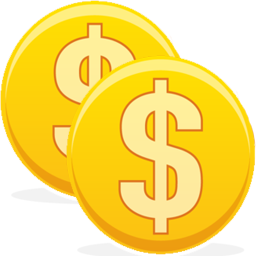
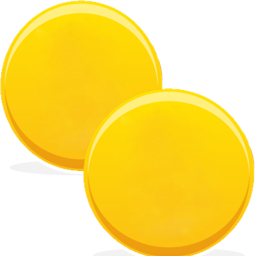
[CHANGED] A a lot of the assets for better looks [WIP] Nicer picture scaling on canvas [ADDED] Defuse all bombs purchase [FIXED] Bug where savedAchievements array would get overpopulated by the same achievement over and over again [IMPROVED] Movement in a certain direction can now be applied through

diff --git a/js/snake.js b/js/snake.js
@@ -5,6 +5,7 @@
  * */
 
 const TICKRATE = 20;
+const log2 = Math.log(2);
 document.addEventListener("DOMContentLoaded", () => {
 	let game = SnakeGame.getGame();
 
@@ -88,10 +89,11 @@ function $(selector){
 const directions = [];
 class Direction {
 
-	constructor(direction, oppositeDirection, headRotation){
+	constructor(direction, oppositeDirection, headRotation, applyMovement){
 		this.direction = direction;
 		this.oppositeDirection = oppositeDirection;
 		this.headRotation = headRotation;
+		this.applyMovement = applyMovement;
 	}
 
 	isOpposite(direction){
@@ -113,10 +115,18 @@ class Direction {
 
 }
 
-Direction.LEFT = Direction.addDirection(new Direction("left", "right", 0));
-Direction.UP = Direction.addDirection(new Direction("up", "down", 90));
-Direction.RIGHT = Direction.addDirection(new Direction("right", "left", 180));
-Direction.DOWN = Direction.addDirection(new Direction("down", "up", 270));
+Direction.LEFT = Direction.addDirection(new Direction("left", "right", 0, (entity, amount) => {
+	entity.x -= amount;
+}));
+Direction.UP = Direction.addDirection(new Direction("up", "down", 90,(entity, amount) => {
+	entity.y -= amount;
+}));
+Direction.RIGHT = Direction.addDirection(new Direction("right", "left", 180, (entity, amount) => {
+	entity.x += amount;
+}));
+Direction.DOWN = Direction.addDirection(new Direction("down", "up", 270, (entity, amount) => {
+	entity.y += amount;
+}));
 Object.freeze(directions);
 
 const gameStates = new Set();
@@ -168,7 +178,6 @@ class SnakeGame {
 				unlockedAchievements: []
 			};
 
-			this.save();
 		} else {
 			this.savedValues = Cookies.getJSON("savedValues");
 		}
@@ -209,6 +218,11 @@ class SnakeGame {
 		addWithID(this.upgrades, new Upgrade("doublescore", "Double Score", "Every apple increases your score by two instead of one", loadImage("score.png"), 15, null, null));
 
 		//Purchases
+		addWithID(this.purchases, new Purchase("defuse", "Defuse all bombs", "Defuses all the bombs on the field", this.bombImg, 20, () => {
+			this.bombs.forEach((bomb) => {
+				bomb.kill();
+			});
+		}, null));
 		addWithID(this.purchases, new Purchase("cut", "Cut in Half", "Cuts your snake in half", loadImage("scissors.png"), 10, () => {
 			let length = this.currentSnake.snakeParts.length;
 
@@ -296,6 +310,7 @@ class SnakeGame {
 		});
 
 		this.updateNewGameOverlay(true);
+		this.save();
 	}
 
 	generateHTML() {
@@ -488,6 +503,16 @@ class SnakeGame {
 	}
 
 	save(){
+		let savedAchievements = [];
+
+		this.achievements.forEach((achievement) => {
+			if(!achievement.locked){
+				savedAchievements.push(achievement.id);
+			}
+		});
+
+		this.savedValues.unlockedAchievements = savedAchievements;
+
 		Cookies.set("savedValues", this.savedValues, {expires: 365});
 	}
 
@@ -505,7 +530,7 @@ class SnakeGame {
 		}
 
 		let snCanvas = this.snakeCanvas;
-		let canvasCont = snCanvas.canvasContext;
+		let canvasCont = snCanvas.canvasCtx;
 		snCanvas.updateCanvasSize();
 		snCanvas.scaleNext();
 
@@ -568,7 +593,10 @@ class SnakeCanvas {
 
 	constructor() {
 		this.canvasEl = $("#snakeCanvas");
-		this.canvasContext = this.canvasEl.getContext("2d");
+		this.canvasCtx = this.canvasEl.getContext("2d");
+
+		this.scalingCanvasEl = document.createElement("canvas");
+		this.scalingCanvasCtx = this.scalingCanvasEl.getContext("2d");
 
 		this.scale = 1;
 		this.updateCanvasSize();
@@ -580,7 +608,7 @@ class SnakeCanvas {
 
 	updateCanvasSize() {
 		let game = SnakeGame.getGame();
-		let context = this.canvasContext;
+		let context = this.canvasCtx;
 
 		let devicePixelRatio = window.devicePixelRatio || 1;
 		let backingStoreRatio =
@@ -592,19 +620,19 @@ class SnakeCanvas {
 
 		let ratio = devicePixelRatio / backingStoreRatio;
 
-		let canvasEl = this.canvasEl;
+		let canvas = this.canvasEl;
 		let canvasWidth = document.body.clientWidth - game.menuWidth;
 		let canvasHeight = document.body.clientHeight;
 
 		if(devicePixelRatio !== backingStoreRatio){
-			canvasEl.style.width = canvasWidth + "px";
-			canvasEl.style.height = canvasHeight + "px";
+			canvas.style.width = canvasWidth + "px";
+			canvas.style.height = canvasHeight + "px";
 		} else {
 			ratio = 1;
 		}
 
-		canvasEl.setAttribute("width", canvasWidth * ratio);
-		canvasEl.setAttribute("height", canvasHeight * ratio);
+		canvas.width = canvasWidth * ratio;
+		canvas.height = canvasHeight * ratio;
 
 		let minPixels = 1900;
 		let maxPixels = 2100;
@@ -621,8 +649,36 @@ class SnakeCanvas {
 		}
 	}
 
+	drawScaledImage(img, x, y, width, height){
+		let sourceWidth = img.width;
+		let sourceHeight = img.height;
+		let targetWidth = this.scale * width;
+
+		let scalingCtx = this.scalingCanvasCtx;
+		let scalingCanvas = this.scalingCanvasEl;
+
+		let currentWidth = sourceWidth;
+		let currentHeight = sourceHeight;
+
+		scalingCanvas.width = currentWidth;
+		scalingCanvas.height = currentHeight;
+
+		scalingCtx.clearRect(0, 0, scalingCanvas.width, scalingCanvas.height);
+		scalingCtx.drawImage(img, 0, 0, sourceWidth, sourceHeight);
+
+		let steps = Math.floor(Math.log(sourceWidth / targetWidth) / log2);
+		for(let i = 0; i < steps; i++){
+			currentWidth *= 0.5;
+			currentHeight *= 0.5;
+
+			scalingCtx.drawImage(scalingCanvas, 0, 0, currentWidth, currentHeight);
+		}
+
+		this.canvasCtx.drawImage(scalingCanvas, 0, 0, currentWidth, currentHeight, x, y, width, height);
+	}
+
 	scaleNext() {
-		this.canvasContext.scale(this.scale, this.scale);
+		this.canvasCtx.scale(this.scale, this.scale);
 	}
 
 	getScaledHeight() {
@@ -701,16 +757,8 @@ class Entity extends Updateable {
 	onCollide(otherEntity) {
 	}
 
-	moveForward(direction){
-		if(direction == Direction.LEFT){
-			this.x--;
-		} else if(direction == Direction.UP){
-			this.y--;
-		} else if(direction == Direction.RIGHT){
-			this.x++;
-		} else if(direction == Direction.DOWN){
-			this.y++;
-		}
+	move(direction, amount){
+		direction.applyMovement(this, amount);
 	}
 
 	get x(){
@@ -738,7 +786,7 @@ class Snake extends Entity {
 		this.snakeGrowthOnFeed = 4;
 		this.growthLeft = 0;
 		this.applesEaten = 0;
-
+		
 		this.snakeDirection = Direction.RIGHT;
 		this.snakeParts = [];
 
@@ -778,22 +826,14 @@ class Snake extends Entity {
 		let direction = this.snakeDirection;
 
 		/*
-		If the snake needs to grow then append a new part in front of it
-		Otherwise move the butt to the front and making it the new head
-		and leave updating the image to the paint() function
+		 If the snake needs to grow then append a new part in front of it
+		 Otherwise move the butt to the front and making it the new head
+		 and leave updating the image to the paint() function
 		 */
 		if(this.growthLeft > 0){
 			let newPart = new SnakePartEntity(snakeHead.x, snakeHead.y);
 
-			if (direction == Direction.LEFT) {
-				newPart.x--;
-			} else if (direction == Direction.UP) {
-				newPart.y--;
-			} else if (direction == Direction.RIGHT) {
-				newPart.x++;
-			} else if (direction == Direction.DOWN) {
-				newPart.y++;
-			}
+			newPart.move(direction, 1);
 
 			this.growthLeft--;
 			this.snakeParts.unshift(newPart);
@@ -1019,7 +1059,7 @@ class ImageEntity extends Entity {
 	}
 
 	paint(canvas) {
-		let context = canvas.canvasContext;
+		let context = canvas.canvasCtx;
 		let rotate = this.rotation != 0;
 		
 		if (rotate) {
@@ -1027,12 +1067,12 @@ class ImageEntity extends Entity {
 
 			context.translate(this.x + (this.width / 2), this.y + (this.height / 2));
 			context.rotate(this.rotation * Math.PI / 180);
-			
-			context.drawImage(this.image, this.width / -2, this.height / -2, this.width, this.height);
+
+			canvas.drawScaledImage(this.image, this.width / -2, this.height / -2, this.width, this.height);
 
 			context.restore();
 		} else {
-			context.drawImage(this.image, this.x, this.y, this.width, this.height);
+			canvas.drawScaledImage(this.image, this.x, this.y, this.width, this.height);
 		}
 	}
 }
@@ -1116,7 +1156,7 @@ class TextEntity extends ColoredEntity {
 	}
 
 	paint(canvas) {
-		let canvasCont = canvas.canvasContext;
+		let canvasCont = canvas.canvasCtx;
 
 		canvasCont.fillStyle = this.color;
 		canvasCont.font = this.font;
@@ -1142,7 +1182,7 @@ class BackgroundEntity extends ColoredEntity {
 	}
 
 	paint(canvas) {
-		let context = canvas.canvasContext;
+		let context = canvas.canvasCtx;
 		context.fillStyle = this.color;
 		context.fillRect(this.x, this.y, this.width, this.height);
 	}
@@ -1278,7 +1318,6 @@ class Achievement extends Updateable {
 
 	unlock(){
 		if(this.locked){
-			SnakeGame.getGame().savedValues.unlockedAchievements.push(this.id);
 
 			this.locked = false;
 			this.achievement.icon.src = this.icon.src;
@@ -1314,7 +1353,7 @@ class Achievement extends Updateable {
 	}
 
 	update(){
-		if(this.condition != null && this.condition()){
+		if(this.locked && this.condition != null && this.condition()){
 			this.unlock();
 		}
 	}

diff --git a/css/snake.css b/css/snake.css
@@ -25,10 +25,8 @@ body, html {
 	flex-direction: column;
 	align-items: center;
 	justify-content: center;
-
 	height: 90px;
 	width: 200px;
-
 	transform: translate(-50%, -50%);
 }
 
@@ -63,6 +61,7 @@ body, html {
 	height: 100%;
 	padding-left: 20px;
 	padding-right: 20px;
+	text-decoration-color: white;
 }
 
 .menuSection {
@@ -214,6 +213,7 @@ body, html {
 	width: 40px;
 	height: 40px;
 	margin: 0 5px 5px 5px;
+	background-color: white;
 }
 
 .achievementIcon {

diff --git a/README.md b/README.md
@@ -1,8 +1,8 @@
-# Snake.js
-
+### Snidle
+###### A snake idle game
 A simple implementation of snake using a html5 canvas and javascript
 
-### Commit Guidelines ###
+#### Commit Guidelines
 * [IMPROVED] - For things that were not broken but now work smoother and better
 * [ADDED] - For new features
 * [FIXED] - For bugfixes
@@ -10,3 +10,6 @@ A simple implementation of snake using a html5 canvas and javascript
 * [LIBRARY] - For dependency modifications
 * [WIP] - For improvements and additions of not yet working features
 * [CHANGED] - For changes that don't really affect the application in neither a negative or positive way
+#### Plans
+
+Make this into a snake idle game instead
